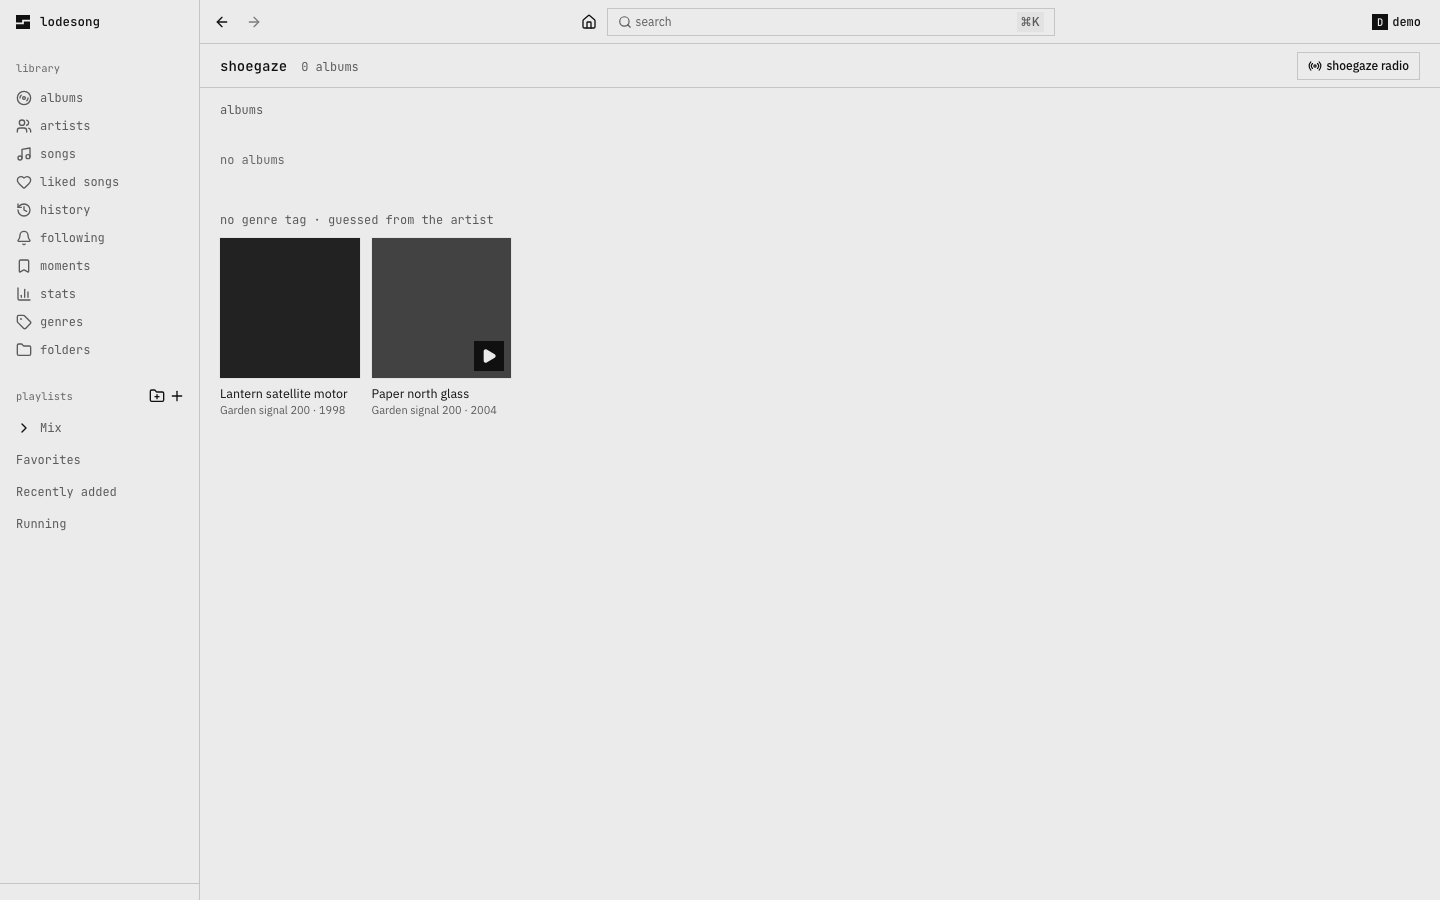
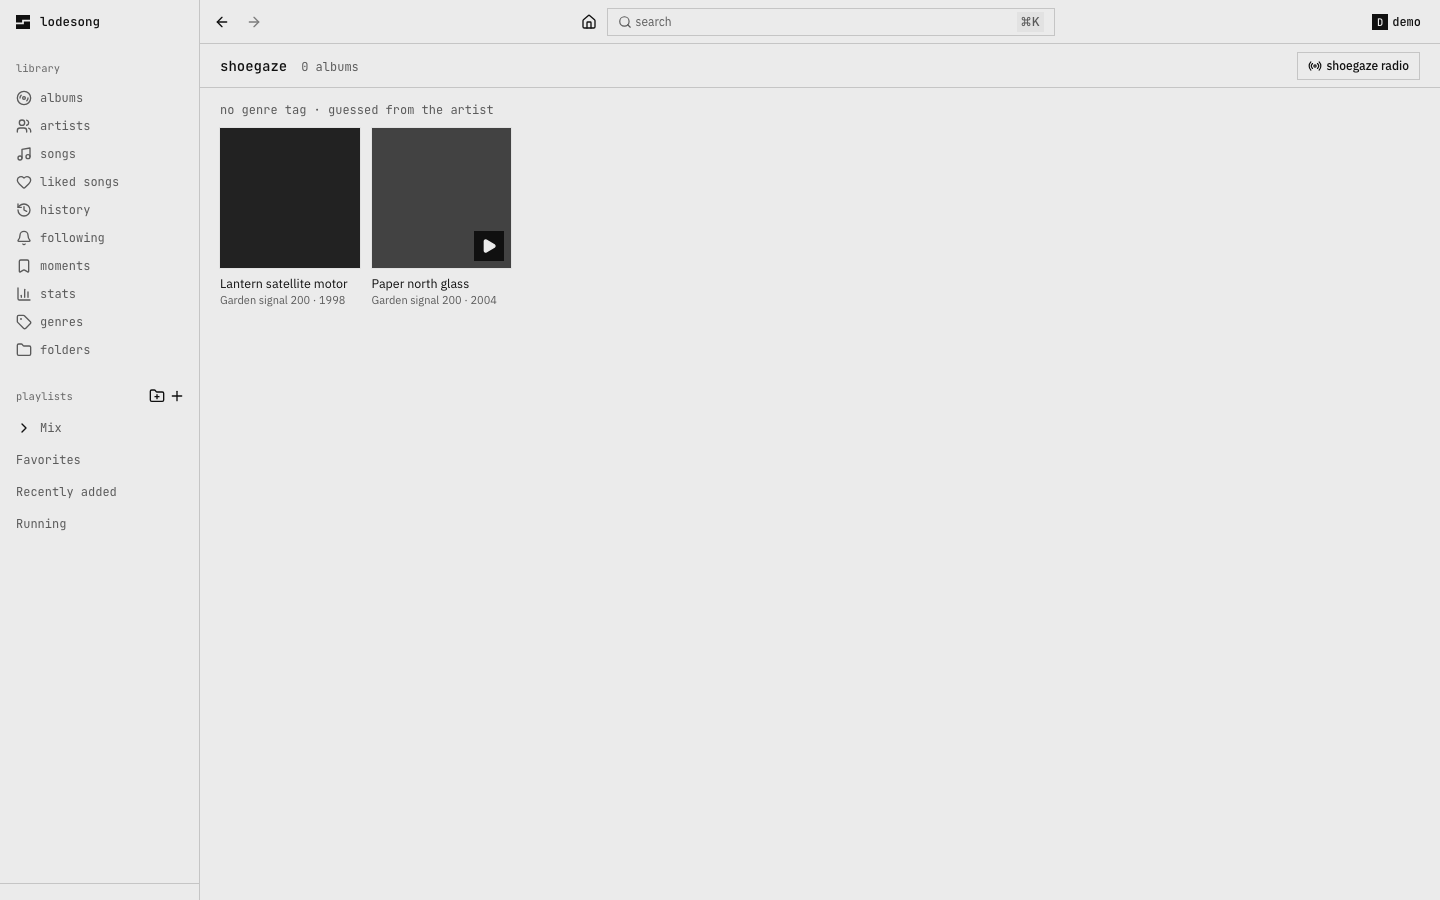
fix(genres): hide empty albums block

Changed region(s): [[0.125, 0.1244, 0.375, 0.4667]]

diff --git a/apps/player/src/pages/detail.tsx b/apps/player/src/pages/detail.tsx
@@ -464,6 +464,7 @@ export function GenrePage({ name }: { name: string }) {
   const inferred = useQuery(
     rpc.genres.inferred.queryOptions({ input: { genre: name }, staleTime: 0, select: (result) => result.albums as Album[] }),
   );
+  const hasInferred = (inferred.data?.length ?? 0) > 0;
   const source = { kind: "genre", name: name.toLowerCase(), href: `/genre/${encodeURIComponent(name)}` };
 
   return (
@@ -497,15 +498,17 @@ export function GenrePage({ name }: { name: string }) {
           <TrackList songs={popular} source={source} />
         </Section>
       )}
-      <Section title="albums">
-        {data ? (
-          <AlbumGrid albums={data} />
-        ) : (
-          <Delayed>
-            <AlbumGridSkeleton count={24} />
-          </Delayed>
-        )}
-      </Section>
+      {!(data?.length === 0 && hasInferred) && (
+        <Section title="albums">
+          {data ? (
+            <AlbumGrid albums={data} />
+          ) : (
+            <Delayed>
+              <AlbumGridSkeleton count={24} />
+            </Delayed>
+          )}
+        </Section>
+      )}
       {inferred.data && inferred.data.length > 0 && (
         <Section title="no genre tag · guessed from the artist">
           <AlbumGrid albums={inferred.data} />

diff --git a/e2e/browse.e2e.ts b/e2e/browse.e2e.ts
@@ -91,4 +91,5 @@ test("songs with no genre tag are counted, and their artist's genres are listed 
   await inferred.getByRole("link", { name: /shoegaze/ }).click();
   await expect(page.getByText(/^no genre tag · guessed from the artist/)).toBeVisible();
   await expect(page.locator('a[href^="/album/"]')).toHaveCount(2);
+  await expect(page.getByText("no albums", { exact: true })).toHaveCount(0);
 });

diff --git a/docs/genres.md b/docs/genres.md
@@ -7,7 +7,7 @@ genres of the artist) only on files it places itself, and older files have nothi
 ## What lodesong shows
 
 - **How many have no genre.** Under the tag genres, the page says how many songs, in how many albums, carry no genre tag
-  and that they are in no genre above. It counts from the [library index](search.md), so it needs the index to have synced.
+  and that they are not counted above. It counts from the [library index](search.md), so it needs the index to have synced.
 - **Inferred genres.** With `MUSICBRAINZ_URL` set (the default), the artist of every album without a genre is looked up on
   MusicBrainz and its top three genres are kept. They are listed apart, under "no genre tag · guessed from the artist", in a lighter
   badge, with the number of albums. A genre page shows those albums in their own "no genre tag" section below the tagged ones.
